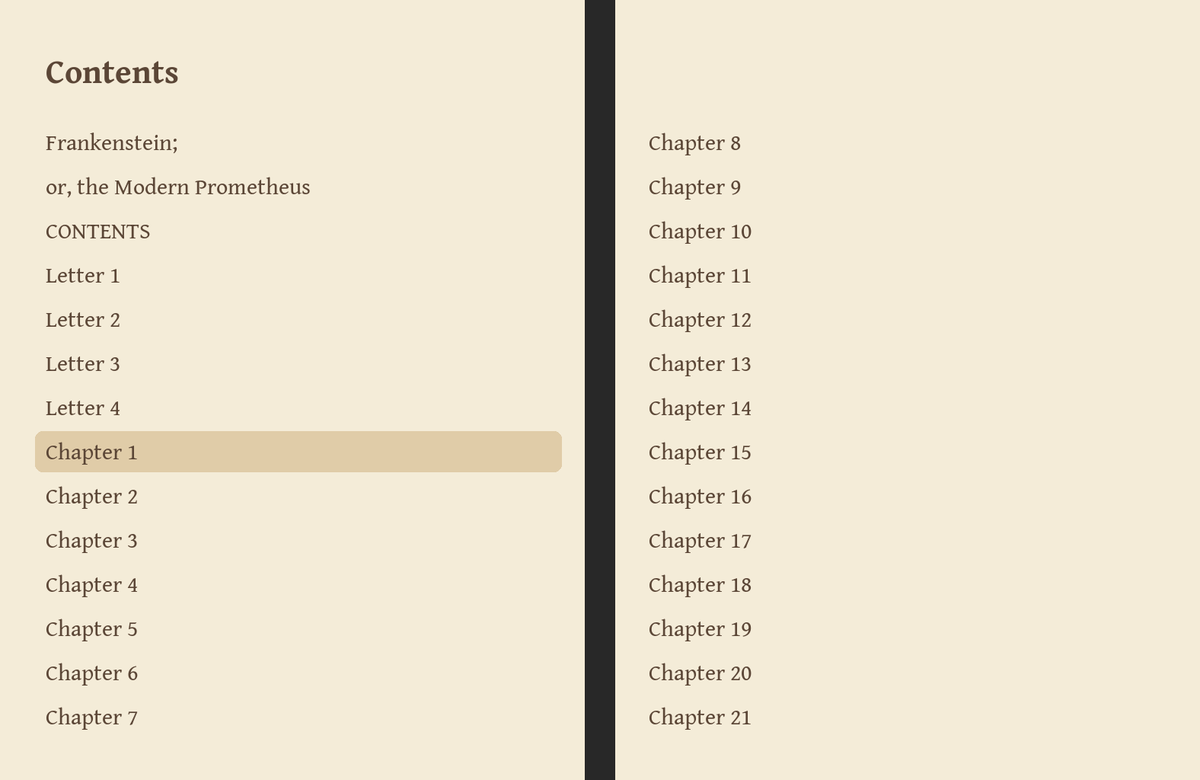
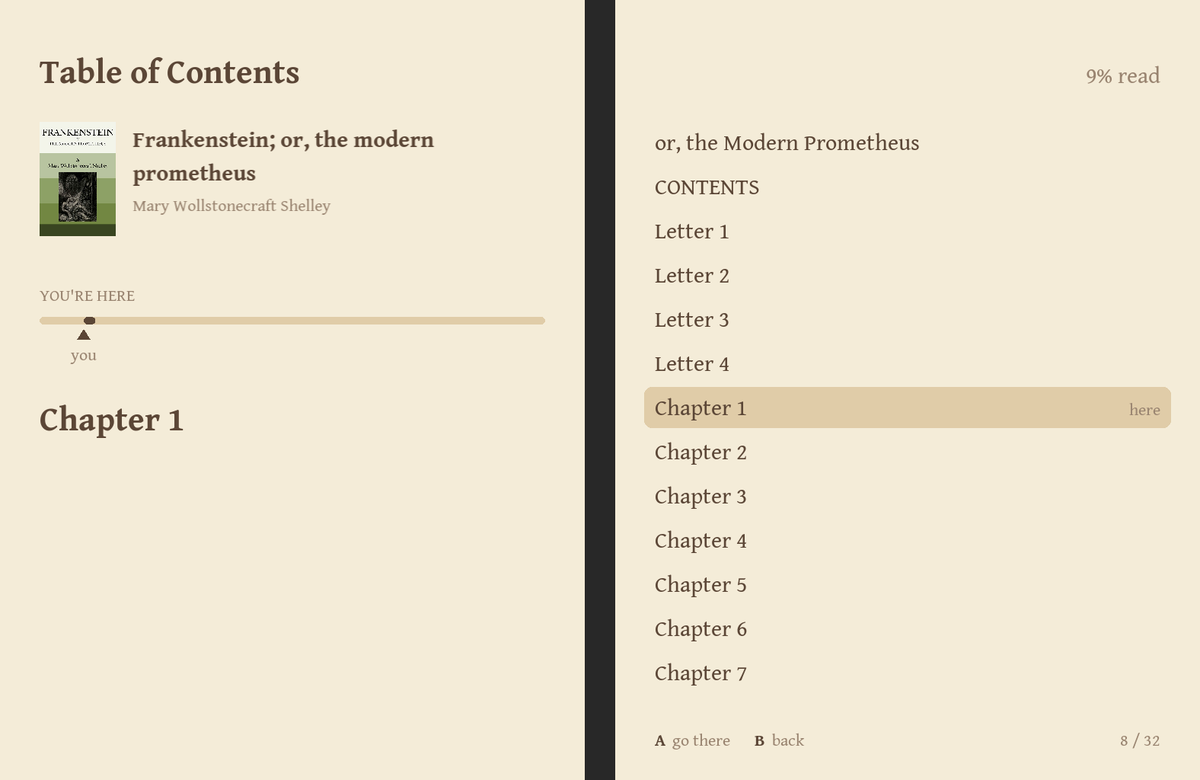
v1.14.0

diff --git a/README.md b/README.md
@@ -160,8 +160,11 @@ last row. Tap **‹** or **›** to change a value, or use the D-pad.
   ink, so it sits on any theme instead of in a white box);
   justified text with optional hyphenation (English); 18 built-in fonts plus
   your own; 25 themes (Sepia by default, plus E-ink, Paper, Mint, Sky,
-  Midnight, Gruvbox, Nord, Red Night and more) that the whole app follows,
-  and Night Mode, another theme that switches on by itself in the evening; page-flip or fade animation.
+  Midnight, Gruvbox, Nord, Red Night and more), picked on a page that shows
+  your book in each, which the whole app follows; Night Mode, another theme
+  that switches on by itself in the evening; page-flip or fade animation.
+  Letters that some older books draw as tiny pictures (for characters their
+  fonts lacked) stay in the line and take the theme's ink.
 - **Footnotes on the facing page:** press A and the note appears on the other
   page while the text stays put.
 - **Dictionary on the facing page:** press Y and move a cursor over the words;
@@ -202,11 +205,30 @@ last row. Tap **‹** or **›** to change a value, or use the D-pad.
 |---|---|
 | ![Library](docs/screenshots/library.png) | ![Contents](docs/screenshots/contents.png) |
 
-| Settings | Midnight theme |
+| Settings | Themes |
 |---|---|
-| ![Settings](docs/screenshots/settings.png) | ![Midnight theme](docs/screenshots/night.png) |
+| ![Settings](docs/screenshots/settings.png) | ![Themes, previewing Nord](docs/screenshots/themes.png) |
 
 *Screenshots use public-domain books from Project Gutenberg.*
+
+## On-screen keyboard
+
+Searching (Find in Book, Get Books) and signing in to KOReader Sync use a
+keyboard on the touchscreen. Tap the keys, or move with the D-pad and press
+A; **B** deletes (and closes the keyboard when the field is empty), **Y**
+types a space, and **Start** or **X** confirms. The top screen lists the
+buttons for the field you're in.
+
+- **Shift** (the arrow) capitalizes the next letter only; press it twice for
+  caps lock (a bar under the arrow), and again to turn it off. **#@** switches
+  to numbers and symbols.
+- **Moving in the text:** tap where you want the cursor, or press up from
+  the top row of keys to reach the text, then left/right; down goes back to
+  the keys. Typing, deleting and spaces happen at the cursor.
+- **Passwords** show as dots; the **eye** at the end of the field shows what
+  you've typed (tap it, or A while the D-pad is on the text).
+- **Web addresses** (your own sync server) get a row of **https://**,
+  **http://**, **www.**, **.com**, **:** and **/** keys.
 
 ## Night Mode
 
@@ -360,6 +382,8 @@ While reading, press **Y**: a cursor appears on a word. Left/right move it
 word by word and up/down line by line, across both pages, and the definition
 shows on the facing page (A for more of a long entry, B to close).
 
+![Looking up a word](docs/screenshots/lookup.png)
+
 English (WordNet) is built in. To add others, copy **StarDict** dictionaries
 (the files KOReader uses: `.ifo`, `.idx`, `.dict` or `.dict.dz`, and `.syn`
 if there is one) into `Ebook/Dictionaries`. By default every dictionary with
@@ -403,6 +427,7 @@ name) only shows one weight.
 | Get Books is greyed out | Turn on Wi-Fi in the device's settings and wait for it to connect. |
 | Pages upside down | Turn the device the other way, with the buttons on your right. |
 | Screen stays dim after quitting | Brightness is restored when the app quits; after a crash, set it in the system menu. |
+| KOReader Sync says "Already in sync" but the other device is ahead | Both must use the same server and account (Settings → KOReader Sync), and the book must be the same file or have the same file name on both. |
 | The clock is wrong | Set **Settings → Reading & Device → Time zone** (**Device clock** uses the system's own setting). |
 | An update fails | Check Wi-Fi and choose **Try again**. Nothing is changed until an update is complete; you can also [update by hand](#install). |
 

diff --git a/CHANGELOG.md b/CHANGELOG.md
@@ -1,6 +1,6 @@
 # Changelog
 
-## Unreleased
+## v1.14.0
 
 - **KOReader Sync checks both of a book's names.** A book is known on the
   server by an ID made from its file name or from its contents, and a device
@@ -28,6 +28,10 @@
   joiners (U+FEFF, U+2060) and zero-width spaces are left out when drawing
   (the fonts have no glyph for them). The text itself is unchanged, so places
   and highlights stay where they were.
+- **README:** new screenshots (reading, My Books, Contents, Settings, the
+  Themes page, looking up a word), an On-screen keyboard section, the Themes
+  page and pictured letters under Features, and a KOReader Sync
+  troubleshooting row.
 
 ## v1.13.1
 
